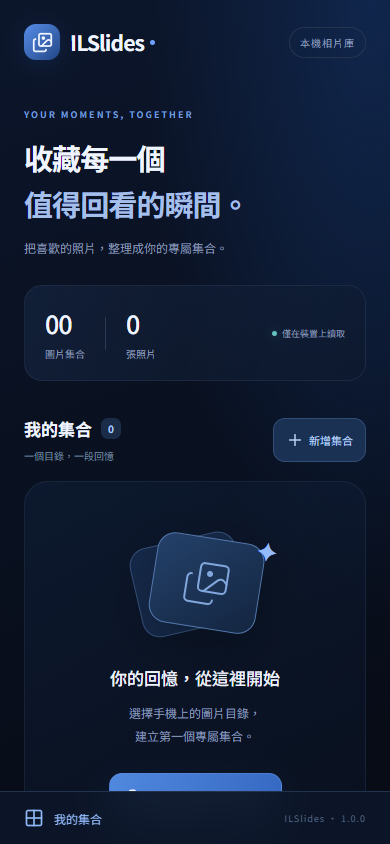
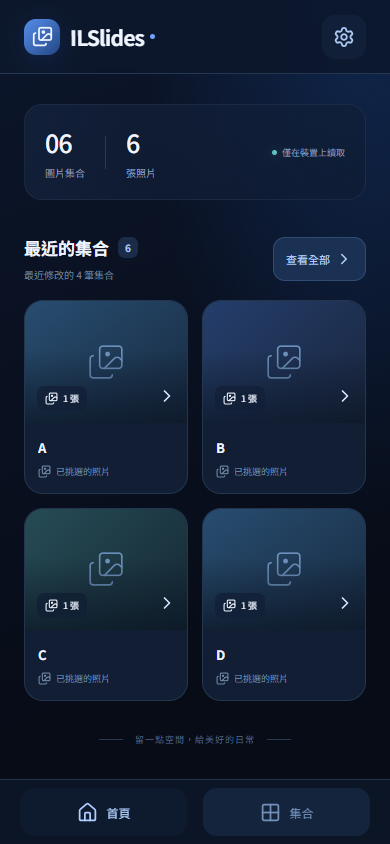
v1.0.3: 新增固定導覽、設定頁與集合排序

diff --git a/src/App.vue b/src/App.vue
@@ -2,12 +2,13 @@
 import { computed, ref, watch, onMounted, onUnmounted } from 'vue'
 import { Capacitor } from '@capacitor/core'
 import { App as NativeApp } from '@capacitor/app'
-import { Plus, ArrowLeft, ArrowRight, FolderOpen, Images, X, Pencil, RefreshCw, Trash2, ChevronRight, Expand, Grid2X2, Check, Search } from 'lucide-vue-next'
+import { Plus, ArrowLeft, ArrowRight, FolderOpen, Images, X, Pencil, RefreshCw, Trash2, ChevronRight, Expand, Grid2X2, Check, Search, Settings, Home, ArrowUpDown } from 'lucide-vue-next'
 import { Folders, loadCollections, loadFolders, uniquePhotos, sortedPhotos, nextIndex, type Collection, type Photo, type SourceFolder } from './library'
 import PhotoThumb from './PhotoThumb.vue'
 import CoverEditor from './CoverEditor.vue'
 import { drawCover, type CoverSettings } from './cover'
 import { version } from '../package.json'
+import { sortCollections, loadPreferences, transitionTime } from './preferences'
 const folders = ref(loadFolders())
 const collections = ref(loadCollections())
 const active = ref<Collection | null>(null)
@@ -16,8 +17,18 @@ const index = ref(0)
 const displayed = ref('')
 const displayedName = ref('')
 const covers = ref<Record<string,string>>({})
+type Page='home'|'collections'|'settings'
+function hashPage():Page { const route=location.hash.slice(2); return route==='collections' || route==='settings' ? route : 'home' }
+const page = ref<Page>(hashPage())
+let settingsReturn:Page='home'
+function navigate(next:Page) { if(next==='settings' && page.value!=='settings') settingsReturn=page.value; page.value=next; location.hash='/'+next; window.scrollTo(0,0) }
+function changedHash() { page.value=hashPage(); window.scrollTo(0,0) }
+const preferences = ref(loadPreferences())
+watch(preferences,value=>{ try {localStorage.setItem('ilslides.preferences',JSON.stringify(value))} catch {error.value='設定無法保存。'} },{deep:true})
 const query = ref('')
-const filteredCollections = computed(() => collections.value.filter(c => c.name.toLocaleLowerCase().includes(query.value.trim().toLocaleLowerCase())))
+const filteredCollections = computed(() => sortCollections(collections.value.filter(c => c.name.toLocaleLowerCase().includes(query.value.trim().toLocaleLowerCase())),preferences.value.sortKey,preferences.value.sortDirection))
+const visibleCollections = computed(() => page.value==='home' ? sortCollections(collections.value,'updatedAt','desc').slice(0,4) : filteredCollections.value)
+function dateLabel(value?:number) { return value ? new Date(value).toLocaleDateString('zh-TW') : '未記錄' }
 const draftCover = ref<CoverSettings>()
 const coverEditor = ref(false)
 const busy = ref(false)
@@ -127,7 +138,9 @@ function toggle(p:Photo) { draftPhotos.value=selected(p.uri) ? draftPhotos.value
 function selectAll() { draftPhotos.value=uniquePhotos([...draftPhotos.value,...folderPhotos.value]) }
 async function save() {
   if(!name.value.trim() || !draftPhotos.value.length || busy.value) return
-  const c:Collection={id:editId.value || crypto.randomUUID(),name:name.value.trim(),photos:uniquePhotos(draftPhotos.value),...(draftCover.value && selected(draftCover.value.uri) ? {cover:{...draftCover.value}} : {})}
+  const existing=collections.value.find(c=>c.id===editId.value)
+  const now=Date.now()
+  const c:Collection={createdAt:existing ? existing.createdAt : now,updatedAt:now,id:editId.value || crypto.randomUUID(),name:name.value.trim(),photos:uniquePhotos(draftPhotos.value),...(draftCover.value && selected(draftCover.value.uri) ? {cover:{...draftCover.value}} : {})}
   const pos=collections.value.findIndex(v=>v.id===c.id)
   if(pos<0) collections.value.push(c); else collections.value[pos]=c
   modal.value=false; ++folderRequest
@@ -143,11 +156,12 @@ function remove() {
   modal.value=false; deleting.value=false
 }
 watch(modal, () => { deleting.value=false; if(!modal.value) { ++folderRequest; folderBusy.value=false } })
-function keyboard(e:KeyboardEvent) { if(coverEditor.value) { if(e.key==='Escape') coverEditor.value=false; return }; if(modal.value) { if(e.key==='Escape') modal.value=false; return }; if(active.value) { if(e.key==='ArrowRight') step(1); if(e.key==='ArrowLeft') step(-1); if(e.key==='Escape') close() } }
+function keyboard(e:KeyboardEvent) { if(coverEditor.value) { if(e.key==='Escape') coverEditor.value=false; return }; if(modal.value) { if(e.key==='Escape') modal.value=false; return }; if(active.value) { if(e.key==='ArrowRight') step(1); if(e.key==='ArrowLeft') step(-1); if(e.key==='Escape') close() } else if(e.key==='Escape' && page.value==='settings') navigate(settingsReturn) }
 onMounted(async () => {
   window.addEventListener('keydown',keyboard)
+  window.addEventListener('hashchange',changedHash)
   if(Capacitor.isNativePlatform()) {
-    const listener=await NativeApp.addListener('backButton', () => { if(coverEditor.value) coverEditor.value=false; else if(modal.value) modal.value=false; else if(active.value) close(); else void NativeApp.exitApp() })
+    const listener=await NativeApp.addListener('backButton', () => { if(coverEditor.value) coverEditor.value=false; else if(modal.value) modal.value=false; else if(active.value) close(); else if(page.value==='settings') navigate(settingsReturn); else if(page.value==='collections') navigate('home'); else void NativeApp.exitApp() })
     removeBack=()=>void listener.remove()
         for(const c of collections.value) {
       if(c.legacyTree) {
@@ -158,29 +172,32 @@ onMounted(async () => {
     }
   }
 })
-onUnmounted(() => { window.removeEventListener('keydown',keyboard); removeBack?.() })
+onUnmounted(() => { window.removeEventListener('keydown',keyboard); window.removeEventListener('hashchange',changedHash); removeBack?.() })
 </script>
 
 <template>
   <main v-if="!active" class="library">
-    <header class="topbar"><a class="brand" href="#" aria-label="ILSlides 首頁"><span class="brand-icon"><Images :size="21" /></span>ILSlides<span class="brand-dot"></span></a><span class="local-badge">本機相片庫</span></header>
-    <section class="stats"><div><strong>{{ collections.length.toString().padStart(2,'0') }}</strong><span>圖片集合</span></div><div class="stat-divider"></div><div><strong>{{ total.toLocaleString() }}</strong><span>張照片</span></div><span class="offline"><span></span>僅在裝置上讀取</span></section>
-    <section class="source-section"><div class="source-heading"><span><FolderOpen :size="15" />常用資料夾</span><button @click="edit()">管理／挑選圖片<ChevronRight :size="15" /></button></div><div class="folder-chips"><button v-for="f in folders" :key="f.uri" @click="edit(undefined,f)"><FolderOpen :size="14" />{{ f.name }}</button><button v-if="!folders.length" @click="edit()"><Plus :size="14" />記住圖片資料夾</button></div></section>
-    <div class="section-heading"><div><h2>我的集合 <span>{{ collections.length }}</span></h2><p>挑選喜歡的照片，組成你的故事</p></div><button class="add-button" @click="edit()"><Plus :size="18" />新增集合</button></div>
-    <div class="collection-search"><Search :size="18" /><input v-model="query" type="search" aria-label="搜尋集合" placeholder="搜尋集合名稱" /><button v-if="query" @click="query=''" aria-label="清除搜尋"><X :size="18" /></button></div>
-    <p v-if="collections.length && !filteredCollections.length" class="search-empty">找不到符合「{{ query }}」的集合。</p>
+    <header class="topbar"><a class="brand" href="#/home" aria-label="ILSlides 首頁" @click.prevent="navigate('home')"><span class="brand-icon"><Images :size="21" /></span>ILSlides<span class="brand-dot"></span></a><button class="icon-button settings-button" @click="navigate('settings')" aria-label="開啟設定"><Settings :size="22" /></button></header>
+    <section v-if="page==='settings'" class="settings-page"><div class="settings-heading"><button class="icon-button" @click="navigate(settingsReturn)" aria-label="返回設定前頁面"><ArrowLeft :size="20" /></button><h1>設定</h1></div><section class="setting-card"><div class="setting-title"><Images :size="21" /><h2>圖片轉場動畫</h2></div><p>調整左右瀏覽時，淡入淡出的動畫時間。</p><div class="duration-label"><label for="transition-duration">動畫時間</label><output>{{ (preferences.transitionMs/1000).toFixed(2) }} 秒</output></div><input id="transition-duration" type="range" min="100" max="2000" step="20" :value="preferences.transitionMs" @input="preferences.transitionMs=transitionTime(Number(($event.target as HTMLInputElement).value))" /><div class="duration-scale"><span>0.10 秒 · 快速</span><span>2.00 秒 · 緩慢</span></div><button class="reset-setting" @click="preferences.transitionMs=360">恢復預設 0.36 秒</button><p class="setting-note">設定自動保存。裝置啟用減少動畫時，會優先依裝置設定顯示。</p></section><section class="setting-card version-card"><span>ILSlides 版本</span><strong>{{ version }}</strong></section></section>
+    <template v-else>
+    <section v-if="page==='home'" class="stats"><div><strong>{{ collections.length.toString().padStart(2,'0') }}</strong><span>圖片集合</span></div><div class="stat-divider"></div><div><strong>{{ total.toLocaleString() }}</strong><span>張照片</span></div><span class="offline"><span></span>僅在裝置上讀取</span></section>
+    <section v-if="page==='collections'" class="source-section"><div class="source-heading"><span><FolderOpen :size="15" />常用資料夾</span><button @click="edit()">管理／挑選圖片<ChevronRight :size="15" /></button></div><div class="folder-chips"><button v-for="f in folders" :key="f.uri" @click="edit(undefined,f)"><FolderOpen :size="14" />{{ f.name }}</button><button v-if="!folders.length" @click="edit()"><Plus :size="14" />記住圖片資料夾</button></div></section>
+    <div class="section-heading"><div><h2>{{ page==='home' ? '最近的集合' : '我的集合' }} <span>{{ collections.length }}</span></h2><p>{{ page==='home' ? '最近修改的 4 筆集合' : '挑選喜歡的照片，組成你的故事' }}</p></div><button v-if="page==='collections'" class="add-button" @click="edit()"><Plus :size="18" />新增集合</button><button v-else class="add-button" @click="navigate('collections')">查看全部<ChevronRight :size="18" /></button></div>
+    <div v-if="page==='collections'" class="collection-search"><Search :size="18" /><input v-model="query" type="search" aria-label="搜尋集合" placeholder="搜尋集合名稱" /><button v-if="query" @click="query=''" aria-label="清除搜尋"><X :size="18" /></button></div>
+    <div v-if="page==='collections'" class="sort-toolbar"><ArrowUpDown :size="16" /><label for="sort-key">排序</label><select id="sort-key" v-model="preferences.sortKey"><option value="name">字母</option><option value="createdAt">建立日期</option><option value="updatedAt">修改日期</option></select><select v-model="preferences.sortDirection" aria-label="排序方向"><option value="asc">遞增</option><option value="desc">遞減</option></select></div>
+    <p v-if="page==='collections' && collections.length && !filteredCollections.length" class="search-empty">找不到符合「{{ query }}」的集合。</p>
     <section v-if="collections.length" class="collection-grid">
-      <article v-for="(c,i) in filteredCollections" :key="c.id" class="collection-card">
-        <button class="card-open" @click="open(c)" :disabled="busy" :aria-label="`開啟 ${c.name}`"><div class="cover" :class="`cover-${i%3}`"><img v-if="covers[c.id]" :src="covers[c.id]" alt="" /><div v-else class="cover-placeholder"><Images :size="38" :stroke-width="1" /></div><span class="photo-count"><Images :size="13" />{{ c.photos.length }} 張</span><span class="open-indicator"><ChevronRight :size="20" /></span></div><div class="card-copy"><h3>{{ c.name }}</h3><p><FolderOpen :size="13" />已挑選的照片</p></div></button>
-        <button class="card-edit icon-button" @click="edit(c)" :aria-label="`編輯 ${c.name}`"><Pencil :size="16" /></button>
+      <article v-for="(c,i) in visibleCollections" :key="c.id" class="collection-card">
+        <button class="card-open" @click="open(c)" :disabled="busy" :aria-label="`開啟 ${c.name}`"><div class="cover" :class="`cover-${i%3}`"><img v-if="covers[c.id]" :src="covers[c.id]" alt="" /><div v-else class="cover-placeholder"><Images :size="38" :stroke-width="1" /></div><span class="photo-count"><Images :size="13" />{{ c.photos.length }} 張</span><span class="open-indicator"><ChevronRight :size="20" /></span></div><div class="card-copy"><h3>{{ c.name }}</h3><p v-if="page==='collections'">建立 {{ dateLabel(c.createdAt) }}</p><p v-if="page==='collections'">修改 {{ dateLabel(c.updatedAt) }}</p><p v-else><Images :size="13" />已挑選的照片</p></div></button>
+        <button v-if="page==='collections'" class="card-edit icon-button" @click="edit(c)" :aria-label="`編輯 ${c.name}`"><Pencil :size="16" /></button>
       </article>
-      <button class="new-card" @click="edit()"><span><Plus :size="26" /></span><strong>新的故事</strong><small>新增你的圖片集合</small></button>
+      <button v-if="page==='collections'" class="new-card" @click="edit()"><span><Plus :size="26" /></span><strong>新的故事</strong><small>新增你的圖片集合</small></button>
     </section>
-    <section v-if="!collections.length" class="empty-card"><div class="empty-art"><div class="art-frame back"></div><div class="art-frame front"><Images :size="48" :stroke-width="1" /><span class="art-spark">✦</span></div></div><h2>你的回憶，從這裡開始</h2><p>從記住的資料夾挑選多張照片，<br />建立第一個專屬集合。</p><button class="primary" @click="edit()"><FolderOpen :size="18" />挑選圖片，建立集合</button><span class="empty-note">照片保留在原目錄，無需上傳</span></section>
+    <section v-if="!collections.length" class="empty-card"><div class="empty-art"><div class="art-frame back"></div><div class="art-frame front"><Images :size="48" :stroke-width="1" /><span class="art-spark">✦</span></div></div><h2>你的回憶，從這裡開始</h2><p>從記住的資料夾挑選多張照片，<br />建立第一個專屬集合。</p><button class="primary" @click="page==='home' ? navigate('collections') : edit()"><FolderOpen :size="18" />挑選圖片，建立集合</button><span class="empty-note">照片保留在原目錄，無需上傳</span></section>
     <footer><span class="footer-line"></span>留一點空間，給美好的日常<span class="footer-line"></span></footer>
-    <div class="bottom-bar"><span><Grid2X2 :size="20" />我的集合</span><span class="version">ILSlides · {{ version }}</span></div>
+    </template><nav class="bottom-bar" aria-label="主要導覽"><button @click="navigate('home')" :class="{selected:page==='home'}" :aria-current="page==='home' ? 'page' : undefined"><Home :size="21" />首頁</button><button @click="navigate('collections')" :class="{selected:page==='collections'}" :aria-current="page==='collections' ? 'page' : undefined"><Grid2X2 :size="21" />集合</button></nav>
   </main>
-  <main v-else class="viewer" @touchstart.passive="start" @touchend.passive="end">
+  <main v-else class="viewer" :style="{'--transition-time':preferences.transitionMs+'ms'}" @touchstart.passive="start" @touchend.passive="end">
     <header class="viewer-header" :class="{hidden:!controls}"><button class="icon-button" @click="close()" aria-label="返回集合"><ArrowLeft /></button><div><h2>{{ active.name }}</h2><span>{{ photos.length ? index+1 : 0 }} / {{ photos.length }}</span></div><button class="icon-button" @click="edit(active)" aria-label="編輯集合"><Pencil :size="20" /></button></header>
     <div class="image-stage" @click="controls=!controls"><Transition name="dissolve"><img v-if="displayed" :key="displayed" :src="displayed" :alt="displayedName" class="main-photo" /></Transition><span v-if="imageBusy" class="loading-indicator">讀取中</span><div v-if="!photos.length" class="viewer-empty"><Images :size="40" /><h2>集合中還沒有圖片</h2><p>編輯集合並挑選要加入的圖片。</p><button class="primary" @click.stop="edit(active)"><Plus :size="18" />挑選圖片</button></div></div>
     <div class="viewer-bottom" :class="{hidden:!controls}"><p class="filename">{{ current?.name }}</p><div class="viewer-actions"><button class="icon-button" @click="step(-1)" :disabled="photos.length<2" aria-label="上一張"><ArrowLeft /></button><div class="swipe-hint">左右滑動瀏覽<span>淡入 · 淡出</span></div><button class="icon-button" @click="step(1)" :disabled="photos.length<2" aria-label="下一張"><ArrowRight /></button></div><div class="viewer-tools"><button @click="open(active)" :disabled="busy"><RefreshCw :size="16" />重新讀取</button><button @click="controls=false"><Expand :size="16" />沉浸瀏覽</button></div></div>

diff --git a/src/style.css b/src/style.css
@@ -3,3 +3,4 @@
 
 .source-section{margin-top:25px}.source-heading,.picker-heading{display:flex;align-items:center;justify-content:space-between;gap:12px;color:#97b0d3;font-size:11px}.source-heading>span,.source-heading button{display:flex;align-items:center;gap:6px}.source-heading button,.picker-heading button{color:#92b9f4;min-height:40px;font-size:10px}.folder-chips{display:flex;gap:8px;overflow:auto;padding:7px 0 12px}.folder-chips button{display:flex;align-items:center;gap:7px;flex-shrink:0;background:#142744;border:1px solid #304668;border-radius:12px;padding:11px 13px;font-size:11px;min-height:44px}.folder-chips button.chosen{background:#294d7e;border-color:#7faef2}.collection-sheet{display:flex;flex-direction:column;height:90dvh;max-height:90dvh}.collection-sheet .sheet-heading{margin-bottom:8px}.collection-sheet .sheet-handle{margin-bottom:14px}.editor-scroll{overflow:auto;min-height:0;flex:1;padding-bottom:16px}.collection-sheet .save-button{flex-shrink:0;margin-top:12px}.picker-heading{margin:12px 0 6px}.picker-empty{font-size:12px;color:#7e99bc;text-align:center;padding:24px}.photo-picker{display:grid;grid-template-columns:repeat(3,minmax(0,1fr));gap:8px}.pick-photo{position:relative;aspect-ratio:1;overflow:hidden;border-radius:12px;padding:0;border:2px solid transparent;background:#162940}.pick-photo.selected{border-color:#86b3f5}.photo-thumb{display:grid;place-items:center;width:100%;height:100%;font-size:9px;color:#8aa6cf;overflow:hidden;background:#142942}.photo-thumb img{width:100%;height:100%;object-fit:cover}.pick-check{position:absolute;top:7px;right:7px;width:22px;height:22px;border-radius:50%;border:1px solid #b1c9ed;background:#10223b90;display:grid;place-items:center}.selected .pick-check{background:#4b84d9}.pick-name{position:absolute;bottom:0;left:0;right:0;background:#071226b0;padding:7px 5px;white-space:nowrap;overflow:hidden;text-overflow:ellipsis;font-size:9px}.selected-strip{display:flex;gap:8px;overflow:auto}.selected-strip button{position:relative;width:66px;height:80px;flex-shrink:0;border-radius:10px;overflow:hidden;padding:0}.selected-strip button>span:last-of-type{position:absolute;bottom:0;left:0;right:0;font-size:8px;background:#0a1839aa;overflow:hidden;text-overflow:ellipsis;white-space:nowrap;padding:4px}.selected-strip svg{position:absolute;top:3px;right:3px;background:#07142dcc;border-radius:50%}@media(min-width:650px){.collection-sheet{height:85dvh}}
 .library>.stats{margin-top:28px}.collection-search{display:flex;align-items:center;gap:10px;background:#0f1d33;border:1px solid #2b4262;border-radius:14px;padding:0 13px;margin-bottom:18px;color:#7fa6da}.collection-search input{background:none;border:0;padding:15px 0;min-width:0}.collection-search button{display:grid;place-items:center;min-width:34px;min-height:44px}.search-empty{text-align:center;font-size:12px;color:#8fa9cf;padding:20px}.collection-card .cover{height:auto;aspect-ratio:4/3}.editor-delete{flex-shrink:0;border-top:1px solid #2c405e}.editor-delete .delete-button{width:100%;margin:8px 0 0;background:#5a2b3e70;border:1px solid #824055;border-radius:12px;font-size:12px;min-height:44px}.editor-delete .delete-confirm{margin:6px 0}.editor-delete .delete-confirm p{margin:8px 0}.crop-backdrop{position:fixed;inset:0;z-index:40;background:#030918dd;display:flex;align-items:center;justify-content:center;padding:18px}.crop-sheet{border-radius:22px;border-bottom:1px solid #324767;max-height:95dvh;padding:22px;overflow:auto}.crop-sheet .sheet-heading{margin-bottom:20px}.crop-window{position:relative;aspect-ratio:4/3;background:#081529;border:1px solid #7698c4;border-radius:14px;overflow:hidden}.crop-window canvas{width:100%;height:100%;display:block;touch-action:none;cursor:grab}.crop-window>span{position:absolute;inset:0;display:grid;place-items:center;color:#94acca;font-size:12px}.crop-guides{position:absolute;inset:0;pointer-events:none;background:linear-gradient(90deg,transparent 33%,#ffffff30 33%,#ffffff30 33.3%,transparent 33.3%,transparent 66%,#ffffff30 66%,#ffffff30 66.3%,transparent 66.3%),linear-gradient(transparent 33%,#ffffff30 33%,#ffffff30 33.3%,transparent 33.3%,transparent 66%,#ffffff30 66%,#ffffff30 66.3%,transparent 66.3%)}.zoom-row{display:flex;justify-content:space-between;align-items:center;font-size:12px;color:#a9c1e2}.zoom-row button{display:flex;align-items:center;gap:5px;font-size:10px;min-height:40px}input[type=range]{padding:0;height:40px;accent-color:#75aaff;border:0;background:none}.cover-options{display:flex;gap:9px;overflow:auto;padding:3px 0 13px}.cover-options button{position:relative;flex-shrink:0;width:76px;height:80px;border:2px solid transparent;border-radius:12px;overflow:hidden;padding:0}.cover-options button.chosen{border-color:#92bfff}.cover-options button>span:last-child{position:absolute;bottom:0;left:0;right:0;background:#08172aaa;font-size:8px;white-space:nowrap;overflow:hidden;text-overflow:ellipsis;padding:4px}.crop-sheet .save-button{margin-top:12px}
+.library{padding-top:calc(94px + env(safe-area-inset-top))}.topbar{position:fixed;top:0;left:0;right:0;z-index:15;background:#0c172bec;backdrop-filter:blur(20px);border-bottom:1px solid #243852;padding:calc(14px + env(safe-area-inset-top)) max(24px,calc((100vw - 920px)/2)) 14px;height:calc(74px + env(safe-area-inset-top))}.settings-button{color:#aac8f2;background:#1b305050}.library>.stats{margin-top:10px}.bottom-bar{padding:8px max(20px,calc((100vw - 920px)/2)) calc(8px + env(safe-area-inset-bottom));z-index:15;gap:16px}.bottom-bar button{flex:1;display:flex;align-items:center;justify-content:center;gap:9px;min-height:48px;border-radius:14px;color:#7290b8;font-size:12px}.bottom-bar button.selected{color:#b0cfff;background:#203a5d85}.sort-toolbar{display:flex;align-items:center;gap:10px;margin:0 0 18px;color:#89a9d3;font-size:11px}.sort-toolbar select{min-width:0;background:#152a47;border:1px solid #355278;border-radius:11px;padding:12px;color:#c1d4f1;font:inherit;min-height:44px;flex:1}.card-copy p+p{margin-top:6px}.settings-heading{display:flex;align-items:center;gap:12px;margin:12px 0 25px}.settings-heading h1{font-size:23px;margin:0}.setting-card{padding:24px;border:1px solid #2a405f;border-radius:20px;background:linear-gradient(145deg,#172b4a90,#101e32);margin-bottom:18px}.setting-title{display:flex;align-items:center;gap:10px;color:#a7c4f0}.setting-title h2{font-size:16px;font-weight:600;color:#e5efff;margin:0}.setting-card p{font-size:11px;color:#849fc3;line-height:1.9;margin:16px 0 25px}.duration-label,.duration-scale{display:flex;justify-content:space-between;align-items:center;font-size:12px;color:#93afd6}.duration-label output{background:#274971;padding:8px 12px;border-radius:10px;color:#d0e3ff;min-width:85px;text-align:center}.duration-scale{font-size:10px;color:#647f9f;margin:3px 0 20px}.reset-setting{padding:11px 14px;border:1px solid #355378;border-radius:11px;color:#a4c0e8;font-size:11px;min-height:44px}.setting-card .setting-note{font-size:10px;margin:20px 0 0}.version-card{display:flex;justify-content:space-between;align-items:center;font-size:12px;color:#8ca8cd}.version-card strong{color:#d0e1fb;font-size:14px;font-weight:500}.dissolve-enter-active,.dissolve-leave-active{transition-duration:var(--transition-time,360ms)}@media(min-width:650px){.library{padding-top:calc(94px + env(safe-area-inset-top))}}@media(prefers-reduced-motion:reduce){.dissolve-enter-active,.dissolve-leave-active{transition:none!important}}

diff --git a/src/library.ts b/src/library.ts
@@ -2,7 +2,7 @@ import type { CoverSettings } from './cover'
 import { registerPlugin } from '@capacitor/core'
 export interface Photo { uri: string; name: string }
 export interface SourceFolder { uri: string; name: string }
-export interface Collection { id: string; name: string; photos: Photo[]; legacyTree?: string; cover?:CoverSettings }
+export interface Collection { id: string; name: string; photos: Photo[]; legacyTree?: string; cover?:CoverSettings; createdAt?:number; updatedAt?:number }
 export const Folders = registerPlugin<{
   pick(): Promise<{ uri: string; name: string; cancelled?: boolean }>
   list(options: { tree: string }): Promise<{ images: Photo[] }>
@@ -23,7 +23,7 @@ function read(key: string): unknown[] {
 function validPhoto(p: any): p is Photo { return p && typeof p.uri === 'string' && typeof p.name === 'string' }
 export function loadCollections(): Collection[] {
   return read('ilslides.collections').filter((c:any) => c && typeof c.id==='string' && typeof c.name==='string').map((c:any) => ({
-    id:c.id, name:c.name, ...((c.cover && typeof c.cover.uri === 'string' && [c.cover.x,c.cover.y,c.cover.zoom].every(Number.isFinite) && Array.isArray(c.photos) && c.photos.some((p:any)=>p?.uri===c.cover.uri)) ? {cover:c.cover} : {}), photos:Array.isArray(c.photos) ? uniquePhotos(c.photos.filter(validPhoto)) : [],
+    id:c.id, name:c.name, ...(Number.isFinite(c.createdAt) && c.createdAt>0 ? {createdAt:c.createdAt} : {}), ...(Number.isFinite(c.updatedAt) && c.updatedAt>0 ? {updatedAt:c.updatedAt} : {}), ...((c.cover && typeof c.cover.uri === 'string' && [c.cover.x,c.cover.y,c.cover.zoom].every(Number.isFinite) && Array.isArray(c.photos) && c.photos.some((p:any)=>p?.uri===c.cover.uri)) ? {cover:c.cover} : {}), photos:Array.isArray(c.photos) ? uniquePhotos(c.photos.filter(validPhoto)) : [],
     ...((c.legacyTree || (!Array.isArray(c.photos) && c.tree)) ? {legacyTree:c.legacyTree || c.tree} : {})
   }))
 }

diff --git a/src/preferences.test.ts b/src/preferences.test.ts
@@ -1,0 +1,28 @@
+import { describe,it,expect,beforeEach } from 'vitest'
+import { sortCollections, transitionTime, loadPreferences } from './preferences'
+const rows=[{id:'b',name:'B',photos:[],createdAt:10,updatedAt:30},{id:'a',name:'A',photos:[],createdAt:30,updatedAt:10},{id:'c',name:'C',photos:[],createdAt:20,updatedAt:20}]
+beforeEach(()=>Object.assign(globalThis,{localStorage:{getItem:()=>null}}))
+describe('集合排序與轉場設定',()=>{
+ it('三種欄位各自支援遞增及遞減且不改原順序',()=>{
+  expect(sortCollections(rows,'name','asc').map(c=>c.id)).toEqual(['a','b','c'])
+  expect(sortCollections(rows,'name','desc').map(c=>c.id)).toEqual(['c','b','a'])
+  expect(sortCollections(rows,'createdAt','asc').map(c=>c.id)).toEqual(['b','c','a'])
+  expect(sortCollections(rows,'createdAt','desc').map(c=>c.id)).toEqual(['a','c','b'])
+  expect(sortCollections(rows,'updatedAt','asc').map(c=>c.id)).toEqual(['a','c','b'])
+  expect(sortCollections(rows,'updatedAt','desc').map(c=>c.id)).toEqual(['b','c','a'])
+  expect(rows.map(c=>c.id)).toEqual(['b','a','c'])
+ })
+ it('舊集合缺少日期時仍能穩定排序',()=>{
+  expect(sortCollections([{id:'old',name:'舊',photos:[]},...rows],'createdAt','asc')[0]!.id).toBe('old')
+ })
+ it('轉場時間限制在滑桿範圍並處理無效值',()=>{
+  expect(transitionTime(-1)).toBe(100);expect(transitionTime(9000)).toBe(2000)
+  expect(transitionTime(NaN)).toBe(360);expect(transitionTime(361)).toBe(360)
+ })
+ it('載入有效設定並回退損壞設定',()=>{
+  Object.assign(globalThis,{localStorage:{getItem:()=>JSON.stringify({transitionMs:1200,sortKey:'updatedAt',sortDirection:'desc'})}})
+  expect(loadPreferences()).toEqual({transitionMs:1200,sortKey:'updatedAt',sortDirection:'desc'})
+  Object.assign(globalThis,{localStorage:{getItem:()=>'{invalid'}})
+  expect(loadPreferences()).toEqual({transitionMs:360,sortKey:'name',sortDirection:'asc'})
+ })
+})

diff --git a/src/preferences.ts b/src/preferences.ts
@@ -1,0 +1,16 @@
+import type { Collection } from './library'
+export type SortKey='name'|'createdAt'|'updatedAt'
+export type SortDirection='asc'|'desc'
+export function sortCollections(collections:Collection[], key:SortKey, direction:SortDirection) {
+ const sign=direction==='asc' ? 1 : -1
+ return [...collections].sort((a,b)=>sign*(key==='name' ? a.name.localeCompare(b.name,'zh-Hant',{numeric:true,sensitivity:'base'}) : (a[key] || 0)-(b[key] || 0)))
+}
+export function transitionTime(value:unknown) {
+ return typeof value==='number' && Number.isFinite(value) ? Math.max(100,Math.min(2000,Math.round(value/20)*20)) : 360
+}
+export function loadPreferences():{transitionMs:number;sortKey:SortKey;sortDirection:SortDirection} {
+ try {
+  const value=JSON.parse(localStorage.getItem('ilslides.preferences') || '{}')
+  return {transitionMs:transitionTime(value.transitionMs),sortKey:['name','createdAt','updatedAt'].includes(value.sortKey)?value.sortKey:'name',sortDirection:value.sortDirection==='desc'?'desc':'asc'}
+ } catch { return {transitionMs:360,sortKey:'name',sortDirection:'asc'} }
+}

diff --git a/AGENTS.md b/AGENTS.md
@@ -11,6 +11,16 @@
 
 ## 目前開發進度
 
+### v1.0.3（2026-10-12）
+
+- 固定頂部列：右側齒輪進入獨立設定頁，版本號移到設定頁。
+- 轉場時間滑桿 100～2000ms，預設 360ms，持久保存並套用圖片淡入淡出。
+- 底部列左側首頁、右側集合；首頁最多 4 筆最近修改集合。
+- 集合頁保留所有管理與搜尋功能，新增字母／建立日期／修改日期的遞增與遞減排序並保存。
+- 新建／編輯集合記錄時間；舊集合缺少日期時標示未記錄。
+- Hash 頁面路徑與 Android 返回鍵支援設定／集合導覽。
+- 15 項單元測試、手機 UI 導覽／首頁上限／排序／設定保存及真實 CSS 轉場時間、Android 建置與 lint 通過；未接 Android 實機。
+
 ### v1.0.2（2026-10-12）
 
 - 從集合圖片選擇封面；固定 4:3 裁切視窗，拖曳調整位置、縮放 1～3 倍及重設。
@@ -27,13 +37,3 @@
 - 舊版集合保留名稱並轉成固定圖片清單，原目錄保留為捷徑。
 - 新增預設 patch +1 的發布版號工具，版號 UI 從 package.json 讀取。
 - 6 項單元測試、手機 UI 自動測試、Android 建置與 lint 通過；未連接 Android 實機。
-
-### v1.0.0（2026-10-12）
-
-- 新增藍黑漸層、圓角卡片的手機圖片集合介面。
-- 支援多集合建立、重新命名、重新選擇來源目錄與移除集合。
-- Android 系統目錄選擇器與持久讀取授權，原始圖片保留在目錄。
-- 左右滑動與箭頭循環瀏覽、360ms 淡入淡出、解碼後切換及下一張預讀。
-- 沉浸瀏覽、Android 返回鍵、空目錄與授權錯誤提示。
-- EXIF 方向處理與縮圖／預覽尺寸限制、有限圖片快取。
-- 前端建置、3 項單元測試、手機瀏覽器 UI 自動測試通過；未連接 Android 實機。

diff --git a/docs/release-v1.0.3.md b/docs/release-v1.0.3.md
@@ -1,0 +1,14 @@
+ILSlides v1.0.3
+
+- 固定頂部列，右側齒輪開啟設定頁；版本號移至設定頁。
+- 設定頁提供圖片轉場滑桿：0.10～2.00 秒，預設 0.36 秒，設定自動保存。
+- 固定底部導覽改為左側首頁、右側集合。
+- 首頁最多顯示最近修改的 4 筆集合。
+- 集合頁提供完整管理、搜尋與封面功能；新增字母／建立日期／修改日期排序，各支援遞增及遞減。
+- 新建及編輯記錄日期；舊集合缺少歷史日期時顯示「未記錄」。
+
+下載 ILSlides1-0-3.apk，可覆蓋安裝，Android 9 以上。版本 1.0.3、versionCode 4，沿用相同 debug 簽章。
+
+驗證：15 項單元測試、手機 UI 固定導覽／首頁上限／全部集合／六種排序／設定與日期保存／實際轉場時間，及既有功能回歸測試通過；Android 建置、lint 與 APK 簽章通過。UI 使用模擬 native bridge，未接 Android 實機。
+
+附 SHA256SUMS.txt 校驗檔。
